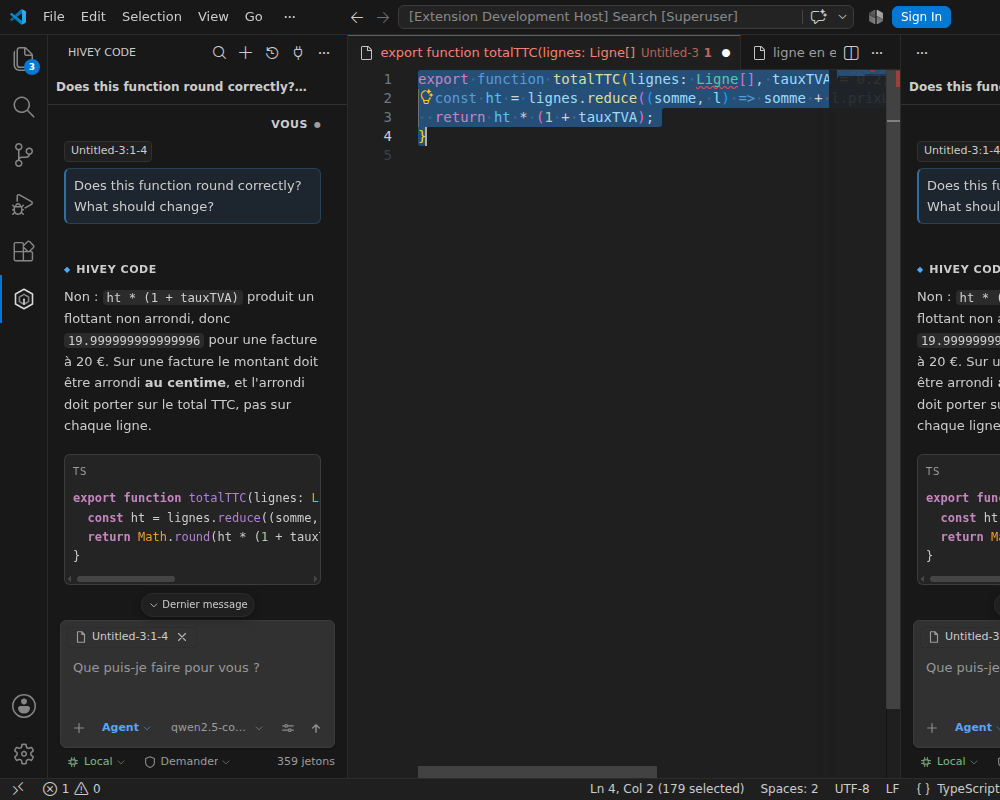
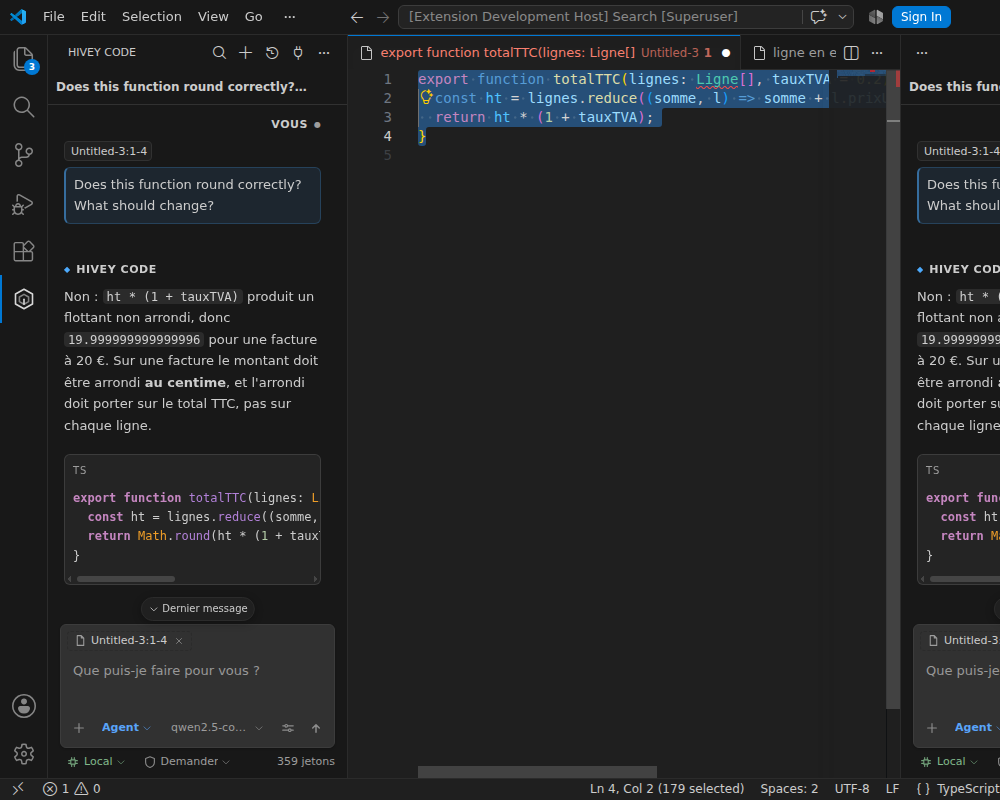
style: attachments look like the editor's, and say what kind of file they are
The remove cross faded in on hover and kept its width while invisible, which is
the worst of both: every chip carried an empty slot at its end, and the one
control it has could not be found without discovering it. It could also be cut
off entirely — it sat at the end of a box with `overflow: hidden`, behind a
folder path long enough to push it out of view, so it was present in the DOM and
absent from the screen. It is always drawn now, as it is in the workbench's own
chat, and the folder is the only part allowed to shrink.

The shape takes the workbench's numbers from `.chat-attached-context-attachment`
— a border rather than a fill, a low radius, four pixels of gap, a height near
eighteen. A bordered outline also lets the two states this row must distinguish,
attached and merely suggested, differ by the border alone.

The icon now says what the file IS: source, structured data, prose or picture,
from the extension — IBM i members included. Four marks is as far as this goes
honestly. The editor draws the language's own icon from a file icon theme, which
is a font and a set of images a webview cannot reach, and a logo redrawn by hand
at twelve pixels is a smudge.

The composer is 44 px rather than 54, closer to the height the editor's own chat
gives itself.

371 unit tests, 12 in a real VS Code.

Claude-Session: https://claude.ai/code/session_012urPDRoxDUeAEjxynvUHV8

diff --git a/media/style.css b/media/style.css
@@ -759,24 +759,52 @@ pre.code {
   gap: var(--sp-1);
   margin-bottom: var(--sp-2);
 }
+/* An attachment, shaped like the editor's own.
+ *
+ * It was a filled pill with a 10 px radius — a badge, which is what you use for a count, not for a
+ * thing with a name and a way to remove it. The numbers here are the workbench's, read out of
+ * `.chat-attached-context-attachment`: a low radius, a border instead of a fill, four pixels of gap
+ * and a height near eighteen. A bordered outline also lets the two states this row has to tell
+ * apart — attached, and merely suggested — differ by the border alone, which is a difference you can
+ * see without reading.
+ *
+ * Everything is laid out so the CROSS never moves and never gets cut. It was there all along, at
+ * the end of a box with `overflow: hidden`, behind a folder path long enough to push it out of
+ * view: present in the DOM, absent from the screen, and the space it left behind read as a gap
+ * where a button should be. The folder is now the only part allowed to shrink. */
 .chip {
   display: inline-flex;
   align-items: center;
-  gap: var(--sp-1);
+  gap: 4px;
   font-size: var(--fs-meta);
-  color: var(--muted);
-  background: var(--vscode-badge-background);
-  border-radius: 10px;
-  padding: 1px var(--sp-2);
+  line-height: 1;
+  color: var(--vscode-foreground);
+  background: var(--vscode-input-background, transparent);
+  border: 1px solid var(--border);
+  border-radius: var(--radius);
+  padding: 0 4px 0 6px;
+  min-height: 20px;
   max-width: 100%;
   overflow: hidden;
-  text-overflow: ellipsis;
   white-space: nowrap;
 }
 .chip .btn.chip-x {
-  padding: 0 2px;
-  font-size: 10px;
-  color: inherit;
+  /* Never shrinks, never scrolls out: it is the only control on the chip. */
+  flex: 0 0 auto;
+  padding: 0;
+  width: 16px;
+  height: 16px;
+  justify-content: center;
+  border-radius: 3px;
+  color: var(--muted);
+}
+.chip .btn.chip-x:hover {
+  color: var(--vscode-foreground);
+  background: var(--hover);
+}
+.chip .btn.chip-x .ico {
+  width: 10px;
+  height: 10px;
 }
 
 /* ── Composer ────────────────────────────────────────────────────────────────────────────── */
@@ -797,8 +825,9 @@ pre.code {
 .composer-input {
   width: 100%;
   /* Kept in step with `autoGrow`'s floor, which is the only other place that knows this number.
-     Three rows was a paragraph of empty box on a screen where most questions are one line. */
-  min-height: 54px;
+     Three rows was a paragraph of empty box on a screen where most questions are one line; 54 was
+     still half a row more than the editor's own chat gives itself. */
+  min-height: 44px;
   overflow-y: hidden;
   max-height: 260px;
   resize: none;
@@ -3050,14 +3079,11 @@ pre.code code {
   flex: 0 0 auto;
   opacity: 0.7;
 }
+/* The label here is already just the file name — the path is split off into `.chip-dir` before it
+   is drawn — so there is nothing to reverse and nothing to cut. */
 .chip.implicit .chip-label {
   overflow: hidden;
   text-overflow: ellipsis;
-  /* The end of a path is the part that identifies it. `src/extension/…` tells you nothing that
-     `…/chat.ts` does not, and the reverse is not true. */
-  direction: rtl;
-  text-align: left;
-  unicode-bidi: plaintext;
 }
 /* Waved away: still shown, still one click from coming back. Removing it from the row entirely
    would leave no way to change your mind and no sign that anything had been decided. */
@@ -3149,11 +3175,22 @@ pre.code code {
 }
 .chip .chip-ico {
   flex: 0 0 auto;
-  opacity: 0.65;
+  width: 13px;
+  height: 13px;
+  opacity: 0.8;
 }
+/* The name identifies and is kept whole; the folder disambiguates and is what gives way. */
 .chip .chip-label {
+  flex: 0 0 auto;
   overflow: hidden;
   text-overflow: ellipsis;
+}
+.chip .chip-dir {
+  flex: 0 1 auto;
+  min-width: 0;
+  overflow: hidden;
+  text-overflow: ellipsis;
+  color: var(--muted);
   /* The end of a path identifies it; the beginning rarely does. */
   direction: rtl;
   text-align: left;
@@ -3407,18 +3444,13 @@ pre.code code {
   white-space: nowrap;
   min-width: 0;
 }
-/* The remove button appears on hover, so a row of attachments is a row of names rather than a row
-   of crosses. It stays reachable by keyboard. */
+/* The remove button is always there.
+ *
+ * It used to fade in on hover — and keep its width while invisible, which is the worst of both:
+ * every chip carried an empty slot at its end, and the one control it has could not be found
+ * without discovering it. Either the space is spent or it is not; the editor's own attachments
+ * spend it, and so does this. */
 .chip .btn.chip-x {
-  opacity: 0;
-  transition: opacity 100ms ease;
-}
-.chip:hover .btn.chip-x,
-.chip .btn.chip-x:focus-visible {
-  opacity: 1;
-}
-.chip.implicit .btn.chip-x {
-  /* The suggestion's control is the point of it: how you say "not this file". */
   opacity: 1;
 }
 

diff --git a/src/webview/chat.ts b/src/webview/chat.ts
@@ -645,7 +645,7 @@ function composer(state: UiState, deps: ChatDeps): HTMLElement {
     const implicitAttached = state.implicit && state.attachments.some((a) => a.label === state.implicit!.label);
     if (state.implicit && !implicitAttached) {
       const chip = el("span", `chip implicit${state.implicitOn ? "" : " off"}`);
-      chip.append(icon("file", "chip-ico"));
+      chip.append(icon(fileIcon(state.implicit.label), "chip-ico"));
       const cut = state.implicit.label.lastIndexOf("/");
       chip.append(el("span", "chip-label", cut >= 0 ? state.implicit.label.slice(cut + 1) : state.implicit.label));
       if (cut > 0) chip.append(el("span", "chip-dir", state.implicit.label.slice(0, cut)));
@@ -665,7 +665,7 @@ function composer(state: UiState, deps: ChatDeps): HTMLElement {
 
     for (const a of state.attachments) {
       const chip = el("span", "chip removable");
-      chip.append(icon(chipIcon(a.kind), "chip-ico"));
+      chip.append(icon(chipIcon(a.kind, a.label), "chip-ico"));
       // The file NAME, with its folder after it in the muted colour — the editor's own shape for
       // this, and the right one: `src/webview/chat.ts` truncated from the left is unreadable, and
       // truncated from the right is every file in the folder. The name identifies, the folder
@@ -892,7 +892,28 @@ function formatCost(usd: number): string {
 }
 
 /** A chip's icon, from what the attachment is. The label says which one; this says what kind. */
-function chipIcon(kind: string): Parameters<typeof icon>[0] {
+/**
+ * The mark for a file, from its extension.
+ *
+ * A row of identical page glyphs says only "these are files", which the reader can see from the
+ * names. Four marks — source, structured data, prose, picture — is as far as this can go honestly:
+ * the editor draws the language's own icon from a theme a webview cannot reach, and a logo redrawn
+ * by hand at twelve pixels is a smudge. An unknown extension keeps the page, which is the truth.
+ */
+function fileIcon(label: string): Parameters<typeof icon>[0] {
+  const ext = label.slice(label.lastIndexOf(".") + 1).toLowerCase();
+  if (/^(json|jsonc|ya?ml|toml|ini|csv|tsv|xml|sql|env|properties)$/.test(ext)) return "data";
+  if (/^(md|markdown|txt|rst|adoc|log|pdf|docx?)$/.test(ext)) return "doc";
+  if (/^(png|jpe?g|gif|svg|webp|bmp|ico|avif)$/.test(ext)) return "image";
+  if (
+    /^(ts|tsx|js|jsx|mjs|cjs|py|rb|go|rs|java|kt|c|h|cc|cpp|hpp|cs|php|swift|scala|sh|bash|zsh|ps1|lua|dart|vue|svelte|html?|css|scss|less|rpgle?|sqlrpgle|clle?|clp|dds|pf|lf|dspf|prtf|cbl|cblle|pgm|mbr)$/.test(ext)
+  ) {
+    return "code";
+  }
+  return "file";
+}
+
+function chipIcon(kind: string, label = ""): Parameters<typeof icon>[0] {
   switch (kind) {
     case "selection":
     case "symbol":
@@ -904,7 +925,7 @@ function chipIcon(kind: string): Parameters<typeof icon>[0] {
     case "changes":
       return "bringIn";
     default:
-      return "file";
+      return fileIcon(label);
   }
 }
 
@@ -912,7 +933,7 @@ function autoGrow(area: HTMLTextAreaElement): void {
   area.style.height = "auto";
   // The floor matches the stylesheet's `min-height`. Two numbers for one decision is how a box
   // ends up snapping to a different size the moment somebody types into it.
-  const height = Math.min(260, Math.max(54, area.scrollHeight));
+  const height = Math.min(260, Math.max(44, area.scrollHeight));
   area.style.height = `${height}px`;
   // The scrollbar only appears once the box has stopped growing.
   area.style.overflowY = area.scrollHeight > 260 ? "auto" : "hidden";

diff --git a/src/webview/dom.ts b/src/webview/dom.ts
@@ -67,6 +67,17 @@ const PATHS = {
   chevron: "M4 6.5 8 10.5 12 6.5",
   chevronLeft: "M10 3.5 5.5 8 10 12.5",
   file: "M4 2h5l3 3v9H4zM9 2v3h3",
+  // What KIND of file, not just "a file".
+  //
+  // A row of identical page glyphs tells the reader nothing they cannot already see from the name,
+  // and the editor's own attachments carry the icon of the language. A webview cannot use the file
+  // icon theme — those are a font and a set of images the workbench owns — so this is four marks
+  // that between them cover what people actually attach: source, structured data, prose, picture.
+  // The distinction earns its place because it survives at 12 px, which a language logo would not.
+  code: "M6 4.5 2.5 8 6 11.5M10 4.5 13.5 8 10 11.5",
+  data: "M8 2c2.8 0 5 .7 5 1.6S10.8 5.2 8 5.2 3 4.5 3 3.6 5.2 2 8 2ZM3 3.6v8.8c0 .9 2.2 1.6 5 1.6s5-.7 5-1.6V3.6M3 8c0 .9 2.2 1.6 5 1.6S13 8.9 13 8",
+  doc: "M4 2h5l3 3v9H4zM9 2v3h3M6 8.5h4M6 11h4",
+  image: "M2.5 3.5h11v9h-11zM5.5 7a1 1 0 1 0 0-2 1 1 0 0 0 0 2ZM2.5 10.5 6 8l3 2.5L11 9l2.5 2",
   check: "M3.5 8.5 6.5 11.5 12.5 4.5",
   cross: "M4 4l8 8M12 4l-8 8",
   mute: "M3.5 3.5l9 9M8 2.6a5.4 5.4 0 1 0 0 10.8 5.4 5.4 0 0 0 0-10.8Z",

diff --git a/CHANGELOG.md b/CHANGELOG.md
@@ -2,6 +2,23 @@
 
 Notable changes, newest first. Dates are the day the work landed on `main`.
 
+## 0.23.0 — 2026-09-02
+
+### Changed
+
+- **Attachments are shaped like the editor's own, and carry the kind of file they are.** The remove
+  cross used to fade in on hover while keeping its width — the worst of both, since every chip had
+  an empty slot at its end and the only control it has could not be found without discovering it.
+  It is always there now, as it is in the workbench's chat. It could also be cut off entirely: it
+  sat at the end of a box with `overflow: hidden`, behind a folder path long enough to push it out
+  of view. The folder is now the only part allowed to shrink.
+- The shape itself takes the workbench's numbers from `.chat-attached-context-attachment` — a
+  border instead of a fill, a low radius, four pixels of gap — and the icon says what the file IS:
+  source, structured data, prose or picture, from the extension, IBM i members included. Four marks
+  is as far as this goes honestly: the editor draws the language's own icon from a theme a webview
+  cannot reach, and a logo redrawn by hand at twelve pixels is a smudge.
+- **The composer is shorter**, closer to the height the editor's own chat gives itself.
+
 ## 0.22.1 — 2026-09-02
 
 ### Fixed
